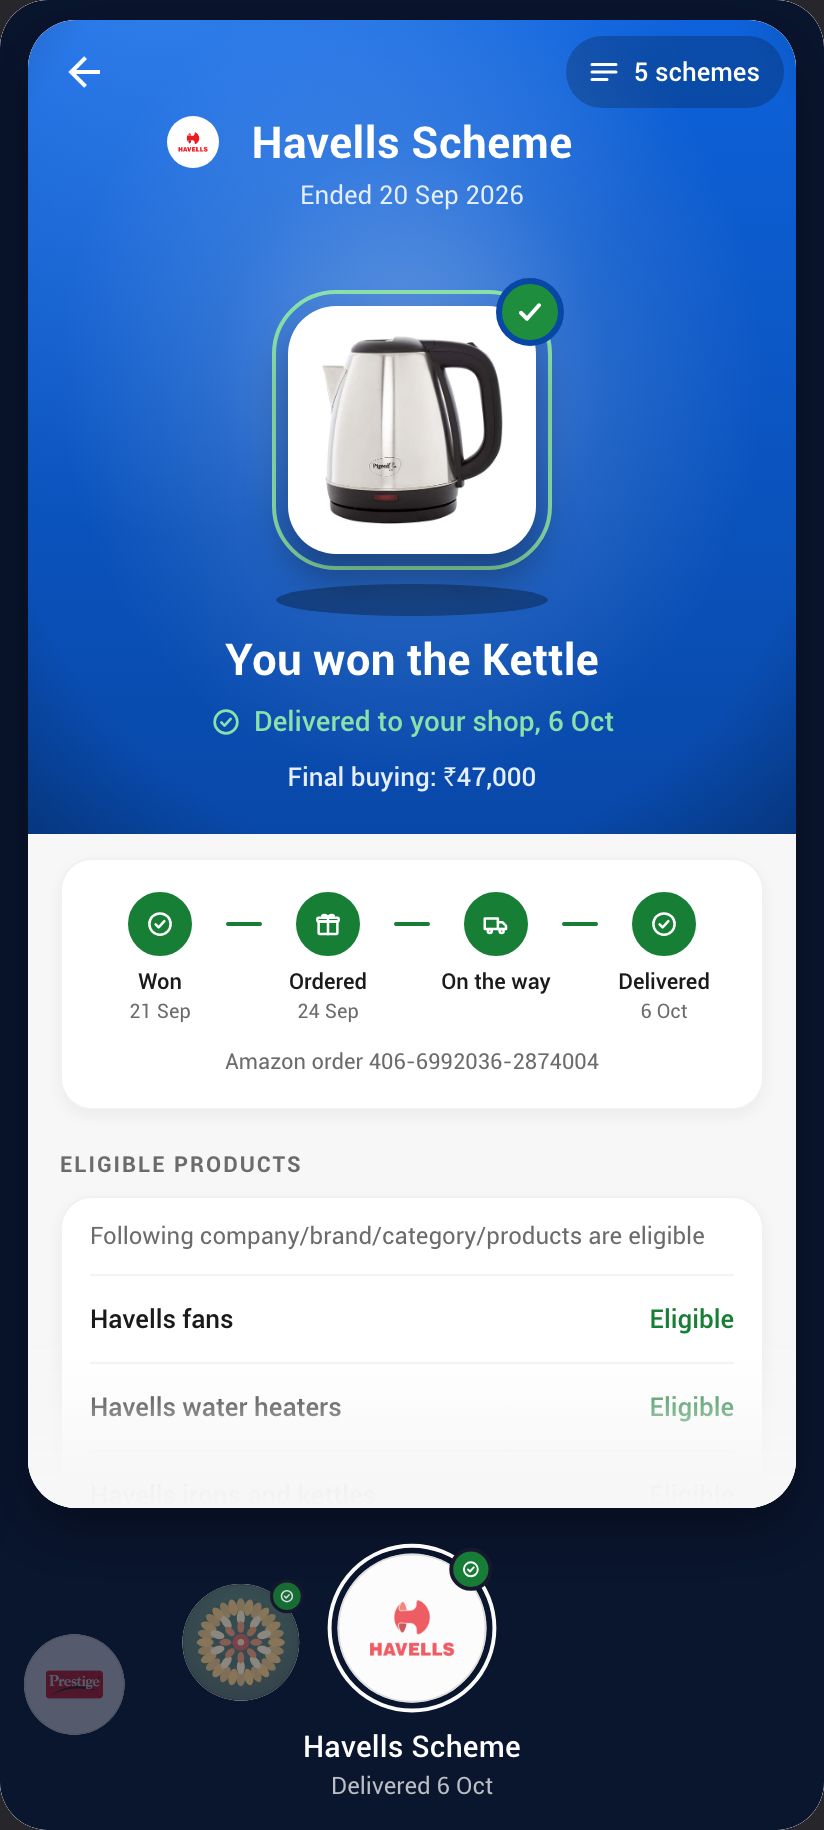
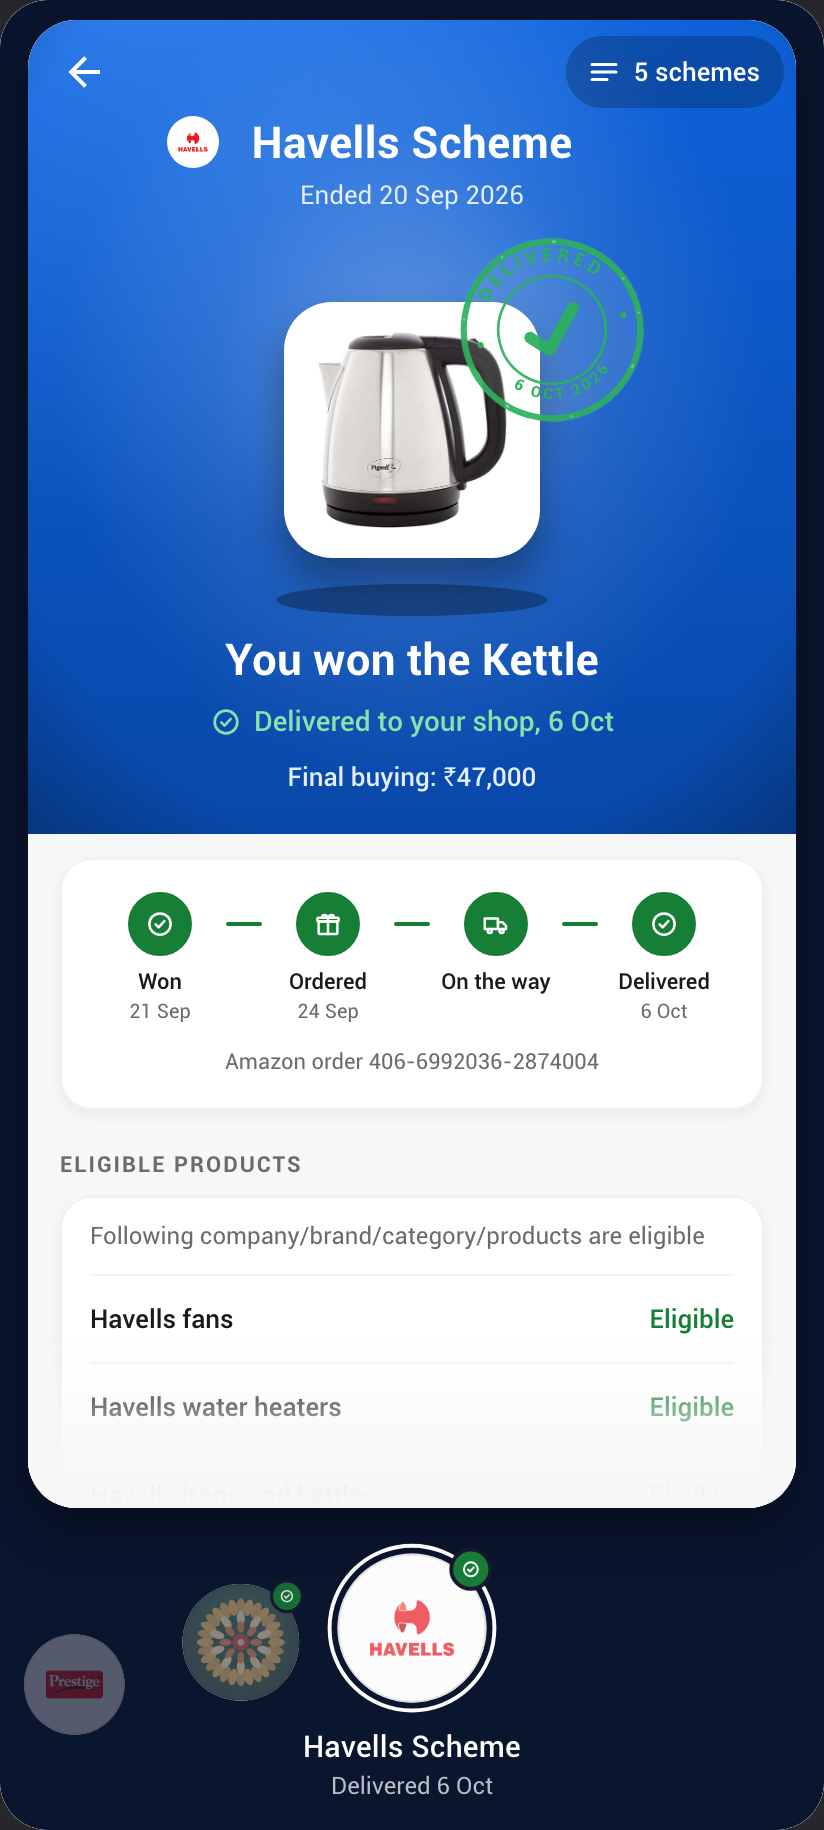
Won state: a real seal stamp
Double ring with uneven ink, the state on the top arc and the date on the
bottom arc in letterspaced caps, a heavy check at the centre, 12 degrees off
square, crossing the tile's top-right corner onto the stage. One ink for
every surface with a faint impression under it.

Changed region(s): [[0.3034, 0.1246, 0.7888, 0.3115]]

diff --git a/src/schemes/SchemePage.js b/src/schemes/SchemePage.js
@@ -19,7 +19,7 @@ import React, { useEffect, useRef, useState } from 'react';
 import { View, Text, Image, Pressable, ScrollView, StyleSheet, Animated, Easing, Platform } from 'react-native';
 import LottieView from 'lottie-react-native';
 import { LinearGradient } from 'expo-linear-gradient';
-import Svg, { Ellipse, Path } from 'react-native-svg';
+import Svg, { Ellipse, Path, Circle, Defs, Text as SvgText, TextPath } from 'react-native-svg';
 import { F } from '../theme';
 import { IconRunningMan, IconTargetFlag } from '../icons';
 import GiftGlyph from '../gifts/icons';
@@ -73,16 +73,41 @@ export function CtaButton({ label, bg, fg, glow = false, onPress, containerStyle
   );
 }
 
-// The seal on a won gift: the system's own "yours" mark, the green check, at
-// tile scale, set into the ring's top-right corner. It lands with the tile.
-function Seal({ anim, fill, cutout }) {
+// The stamp on a won gift. A seal, the way a real one is cut: a heavy outer
+// ring with its ink slightly uneven, a hairline inner ring, the word on the top
+// arc and the date on the bottom arc in letterspaced caps (both read upright),
+// a heavy check at the centre. Set 12 degrees off square, pressed onto the
+// tile's corner, it lands with the tile and settles from 1.3 to 1. One ink for
+// every surface, a green that reads on the white tile and on the night behind.
+const STAMP_INK = '#2BB05B';
+function WonStamp({ word, date, anim }) {
+  const id = React.useRef(`st${Math.random().toString(36).slice(2, 7)}`).current;
   return (
     <Animated.View
       pointerEvents="none"
-      style={[styles.seal, { backgroundColor: fill, borderColor: cutout, opacity: anim, transform: [{ scale: anim.interpolate({ inputRange: [0, 1], outputRange: [0.6, 1] }) }] }]}
+      style={[styles.stamp, { opacity: anim, transform: [{ rotate: '-12deg' }, { scale: anim.interpolate({ inputRange: [0, 1], outputRange: [1.3, 1] }) }] }]}
     >
-      <Svg width={18} height={18} viewBox="0 0 24 24">
-        <Path d="M6 12.5l4 4 8-9" stroke="#fff" strokeWidth={2.6} strokeLinecap="round" strokeLinejoin="round" fill="none" />
+      <Svg width={96} height={96} viewBox="0 0 100 100">
+        <Defs>
+          {/* top arc, left to right over the top; bottom arc, left to right under the bottom */}
+          <Path id={`${id}top`} d="M 14 50 A 36 36 0 0 1 86 50" />
+          <Path id={`${id}bot`} d="M 14 50 A 36 36 0 0 0 86 50" />
+        </Defs>
+        {/* the impression: a faint lift under the ink so the seal reads on a green stage as well as on white */}
+        <Circle cx="50" cy="50" r="48" fill="#FFFFFF" opacity="0.10" />
+        <Circle cx="50" cy="50" r="46" stroke={STAMP_INK} strokeWidth="3.2" fill="none" opacity="0.92" />
+        {/* uneven ink: a dashed hairline in the tile's colour eats small bites of the outer ring */}
+        <Circle cx="50" cy="50" r="46" stroke="#FFFFFF" strokeWidth="1.2" fill="none" opacity="0.35" strokeDasharray="1 27 2 41 1 33 2 52 1 38" />
+        <Circle cx="50" cy="50" r="28" stroke={STAMP_INK} strokeWidth="1.4" fill="none" opacity="0.9" />
+        <SvgText fill={STAMP_INK} fontFamily={F.bold} fontSize="9.5" letterSpacing="2.2" textAnchor="middle">
+          <TextPath href={`#${id}top`} startOffset="50%">{word}</TextPath>
+        </SvgText>
+        <SvgText fill={STAMP_INK} fontFamily={F.bold} fontSize="8" letterSpacing="1.6" textAnchor="middle">
+          <TextPath href={`#${id}bot`} startOffset="50%">{date}</TextPath>
+        </SvgText>
+        <Circle cx="12" cy="50" r="1.6" fill={STAMP_INK} />
+        <Circle cx="88" cy="50" r="1.6" fill={STAMP_INK} />
+        <Path d="M38 51.5l8.5 8.5L63 41" stroke={STAMP_INK} strokeWidth="6" strokeLinecap="round" strokeLinejoin="round" fill="none" opacity="0.94" />
       </Svg>
     </Animated.View>
   );
@@ -150,6 +175,14 @@ export default function SchemePage({ scheme, active, first, offset, bottomPad, o
     s.state === STATE.SCHEDULED ? t.startsNote(s.startLabel)
     : null;
   // The stepper below carries the delivery story; the stage does not repeat it.
+  // The stamp reads the state and its date.
+  const stampWord = s.state === STATE.DELIVERED ? t.stampDelivered : s.state === STATE.GIFT_ORDERED ? t.stampOnTheWay : t.stampWon;
+  const stampDate = (
+    s.state === STATE.DELIVERED && scheme.fulfilment.deliveredAt ? ddMMM(scheme.fulfilment.deliveredAt)
+    : s.state === STATE.GIFT_ORDERED && scheme.fulfilment.orderedAt ? ddMMM(scheme.fulfilment.orderedAt)
+    : s.ended ? ddMMM(scheme.endTime + 24 * 60 * 60 * 1000)
+    : ddMMM(scheme.now)
+  ).toUpperCase() + ' ' + new Date(scheme.endTime).getUTCFullYear();
   // The won state's one status line, in the colour of its meaning.
   const wonStatus =
     s.state === STATE.DELIVERED ? { text: t.wonStatusDelivered(deliveredLabel), color: st.good, icon: 'check' }
@@ -330,13 +363,7 @@ export default function SchemePage({ scheme, active, first, offset, bottomPad, o
                 )}
                 {/* A won gift wears the system's "yours" ring, 2 px of the settled green
                     at a 6 px gap, concentric with the tile; the goal state wears none. */}
-                <Animated.View
-                  style={[
-                    styles.tileWrap,
-                    compact && styles.tileWrapCompact,
-                    hero.tone === 'won' && [styles.tileRing, { borderColor: st.good, opacity: tileA }],
-                  ]}
-                >
+                <View style={[styles.tileWrap, compact && styles.tileWrapCompact]}>
                 <Animated.View
                   style={[
                     styles.tile,
@@ -353,8 +380,8 @@ export default function SchemePage({ scheme, active, first, offset, bottomPad, o
                     <GiftGlyph kind={hero.gift.icon} size={80} color={st.accentDeep} strokeWidth={1.2} />
                   )}
                 </Animated.View>
-                {hero.tone === 'won' ? <Seal anim={tileA} fill={th.card.good} cutout={st.ground2} /> : null}
-                </Animated.View>
+                {hero.tone === 'won' ? <WonStamp word={stampWord} date={stampDate} anim={tileA} /> : null}
+                </View>
               </Animated.View>
               {hero.tone === 'won' ? (
                 <Animated.View style={[rise(nameA, 8), lag]}>
@@ -687,15 +714,14 @@ const styles = StyleSheet.create({
   heroLabel: { position: 'absolute', top: 18, fontFamily: F.bold, fontSize: 11, lineHeight: 15, letterSpacing: 1.2 },
   tileWrap: { marginTop: 16 },
   tileWrapCompact: { marginTop: 14 },
-  // The won ring: 2 px at a 6 px gap, outer radius = tile radius + 8 (concentric).
-  tileRing: { padding: 6, borderWidth: 2, borderRadius: 32 },
   tileWon: { width: 136, height: 136, borderRadius: 24 },
-  tileWonCompact: { width: 124, height: 124, borderRadius: 24 },
+  tileWonCompact: { width: 128, height: 128, borderRadius: 24 },
   tileImgWon: { width: 104, height: 104 },
-  tileImgWonCompact: { width: 94, height: 94 },
-  // The seal: a 34 px green disc with a white check, cut out of the ring's corner
-  // by a 3 px border in the stage's own colour.
-  seal: { position: 'absolute', top: -8, right: -8, width: 34, height: 34, borderRadius: 17, borderWidth: 3, alignItems: 'center', justifyContent: 'center' },
+  tileImgWonCompact: { width: 98, height: 98 },
+  // The stamp crosses the tile's top-right corner and lands on the stage: its
+  // centre sits 6 px outside the tile, so the ink reads on the dark ground and
+  // only clips the photo's empty corner.
+  stamp: { position: 'absolute', right: -54, top: -34, width: 96, height: 96 },
   wonHeadline: { marginTop: 6, textAlign: 'center', fontFamily: F.bold, fontSize: 22, lineHeight: 28, paddingHorizontal: 24, letterSpacing: 0.1 },
   wonStatusRow: { marginTop: 8, flexDirection: 'row', alignItems: 'center', justifyContent: 'center', gap: 6, paddingHorizontal: 24 },
   wonStatus: { fontFamily: F.medium, fontSize: 14, lineHeight: 18, fontVariant: ['tabular-nums'] },

diff --git a/src/schemes/copy.js b/src/schemes/copy.js
@@ -46,6 +46,9 @@ export const T = {
       ...(ended ? [] : [['truck', `Amazon delivers to your shop by ${deliverBy}`]]),
     ],
     targetWord: 'Target',
+    stampWon: 'WON',
+    stampOnTheWay: 'ON THE WAY',
+    stampDelivered: 'DELIVERED',
     wonHeadline: (short) => `You won the ${short}`,
     wonStatusDelivered: (d) => `Delivered to your shop, ${d}`,
     wonStatusOnTheWay: (by) => `On the way. Arrives by ${by}`,
@@ -97,6 +100,9 @@ export const T = {
       ...(ended ? [] : [['truck', `Amazon से डिलीवरी, ${deliverBy} तक`]]),
     ],
     targetWord: 'टारगेट',
+    stampWon: 'जीता',
+    stampOnTheWay: 'रास्ते में',
+    stampDelivered: 'डिलीवर',
     wonHeadline: (short) => `आपने ${short} जीता`,
     wonStatusDelivered: (d) => `${d} को आपकी दुकान पर डिलीवर हुआ`,
     wonStatusOnTheWay: (by) => `रास्ते में। ${by} तक पहुँचेगा`,

diff --git a/docs/SCHEME-DOCK.md b/docs/SCHEME-DOCK.md
@@ -201,17 +201,18 @@ peek nudge on arrival.
 
 ## Completed schemes
 
-A completed scheme with a gift reads as settled before a word is read, in the
-system's own language for "this one is yours":
+A completed scheme with a gift reads as settled before a word is read:
 
-- The won gift's tile wears a 2 px ring of the settled green at a 6 px gap,
-  concentric with the tile (outer radius = tile radius + 8). The goal state wears no
-  ring.
-- A 34 px green seal with a white check sits in the ring's top-right corner, cut out
-  of the ring by a 3 px border in the stage's own colour. It lands with the tile and
-  settles from 0.6 to 1. This is the same check the medallions, the dock thumbs and
-  the arc thumbs carry for a won gift, at tile scale.
-- The tile is smaller than a goal tile (124 px in the sheet, 136 px full), because the
+- The won gift's tile carries a seal, cut the way a real one is: a 3.2 px outer ring
+  with its ink slightly uneven (a hairline dashed bite in the paper's colour), a
+  1.4 px inner ring, the state on the top arc and the date on the bottom arc in
+  letterspaced caps (both read upright), two dots at the sides, and a heavy check at
+  the centre. 96 px, set 12 degrees off square, one green ink (`#2BB05B`) that reads
+  on the white tile and on every night colour, with a 10 % white impression under it.
+- The seal crosses the tile's top-right corner and lands on the stage: its centre sits
+  6 px outside the tile, so the ink shows on the ground and only clips the photo's
+  empty corner. It lands with the tile and settles from 1.3 to 1.
+- The tile is smaller than a goal tile (128 px in the sheet, 136 px full), because the
   object is no longer the thing to reach for.
 - The sentence leads: "You won the Air Fryer" at 22 px Bold, the title's weight. Under
   it, one status line in the colour of its meaning, with its glyph: "Delivered to your
@@ -221,8 +222,9 @@ system's own language for "this one is yours":
 - No meter, no ask, no note that repeats the stepper. After delivery the address card
   is gone.
 
-A rubber stamp was tried and rejected: it is a cliché, and it fights the tile instead
-of changing what the tile is.
+Two earlier treatments were rejected: a rotated bordered label (a cliché that fought
+the tile) and a ring with a small check badge (correct, but too quiet to be read as
+"won" at a glance).
 
 ## Numbers
 
